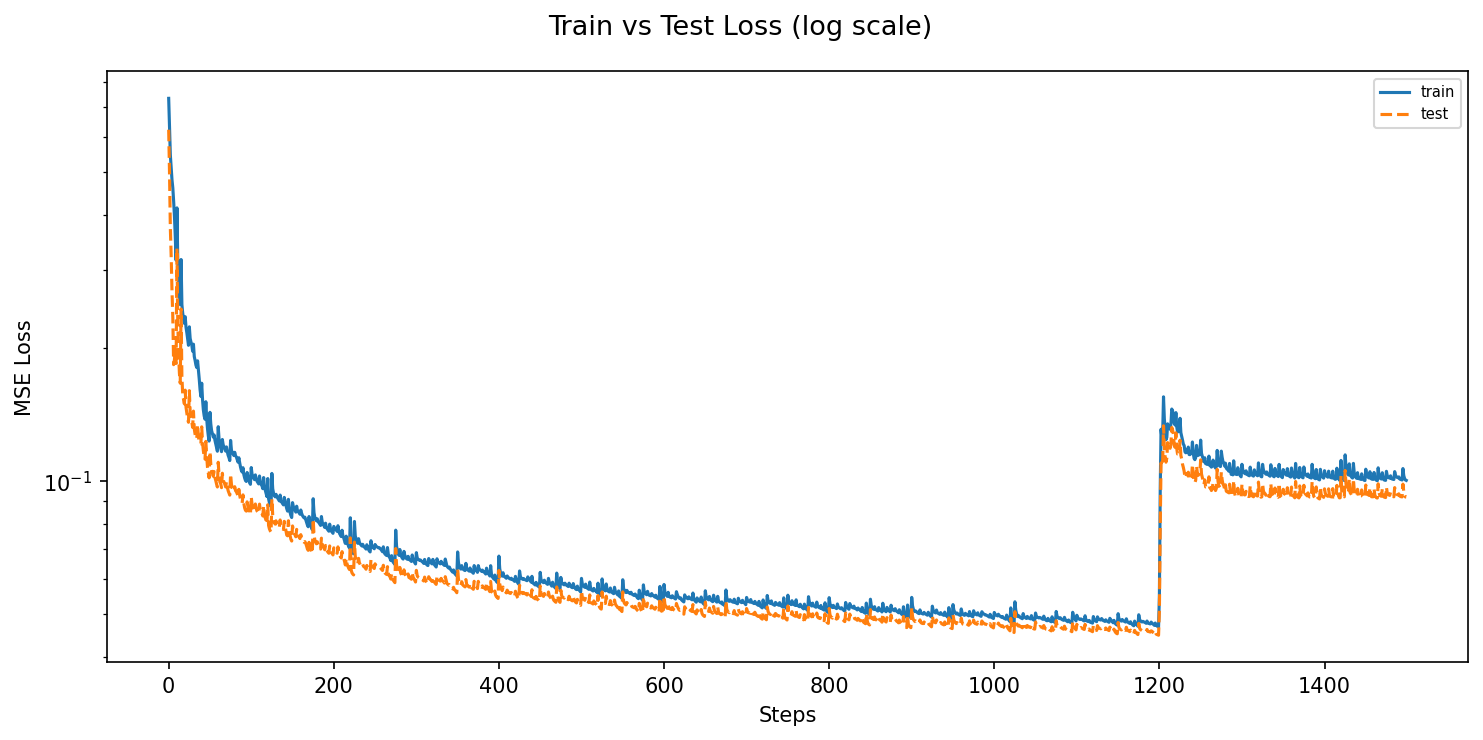
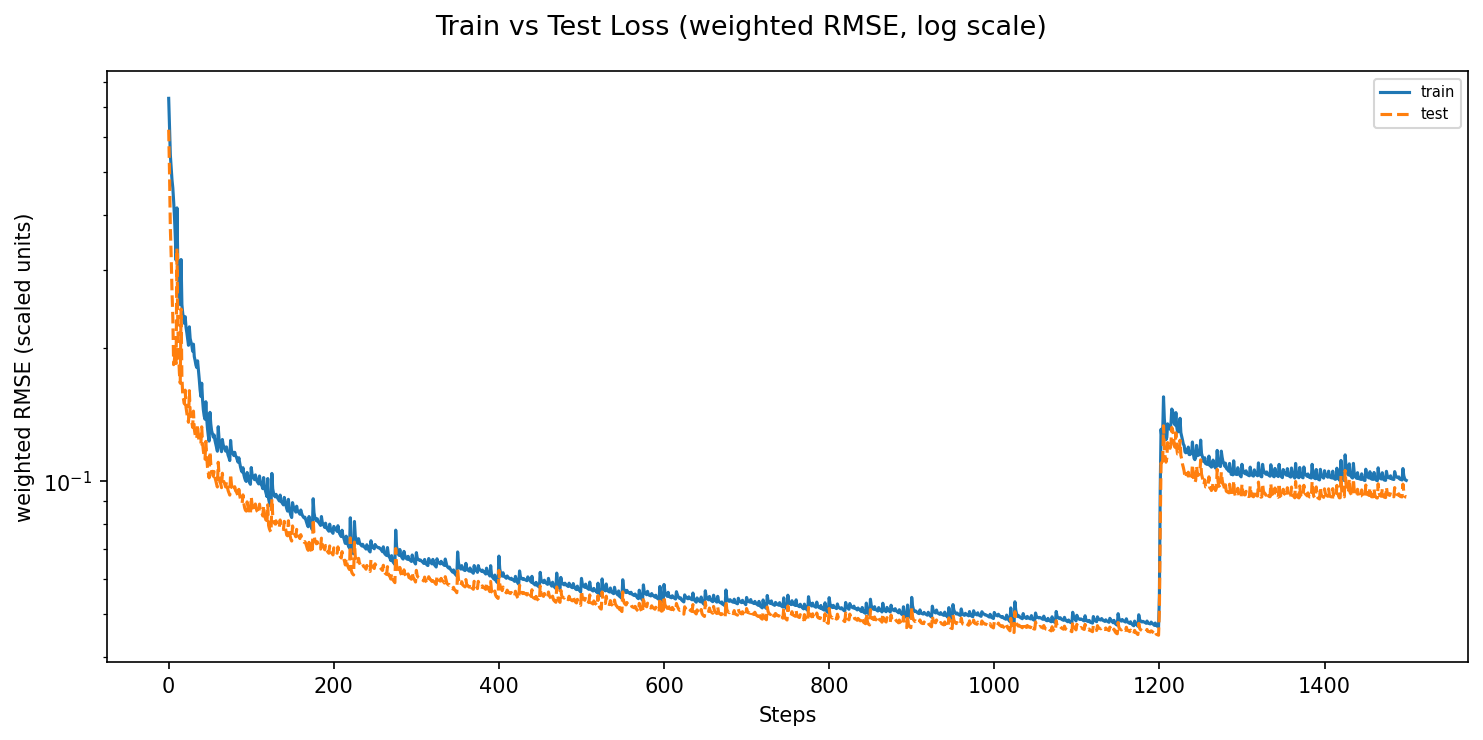
nAn patches

Changed region(s): [[0.3102, 0.0, 0.7134, 0.0622], [0.0, 0.2797, 0.031, 0.7149]]

diff --git a/visualize.py b/visualize.py
@@ -44,12 +44,14 @@ def plot_loss_curves():
         train_loss = list(_h["train_loss"])
         test_loss  = list(_h["test_loss"])
 
+        # pykan stores sqrt() of the loss it was given, and it was given
+        # weighted_mse, so these series are weighted RMSE and not MSE
         fig, ax = plt.subplots(figsize=(10, 5))
-        fig.suptitle("Train vs Test Loss (log scale)", fontsize=13)
+        fig.suptitle("Train vs Test Loss (weighted RMSE, log scale)", fontsize=13)
         ax.semilogy(train_loss, label='train')
         ax.semilogy(test_loss,  label='test', linestyle='--')
         ax.set_xlabel("Steps")
-        ax.set_ylabel("MSE Loss")
+        ax.set_ylabel("weighted RMSE (scaled units)")
         ax.legend(fontsize=7)
         plt.tight_layout()
         plt.savefig(cfg.FIG_DIR + "loss_curves.png", dpi=150, bbox_inches="tight")
@@ -66,6 +68,16 @@ def plot_scatter(preds, actual_ppb, species_names, n_species):
     axes = axes.flatten()
     for i, (name, ax) in enumerate(zip(species_names, axes)):
         a, p = actual_ppb[:, i], preds[:, i]
+
+        # np.polyfit raises LinAlgError on non-finite input, which would take out
+        # the whole figure just because one species went bad
+        finite = np.isfinite(a) & np.isfinite(p)
+        a, p = a[finite], p[finite]
+        if a.size < 2:
+            ax.set_title(f"{name}  (no finite predictions)", fontsize=9)
+            ax.set_visible(True)
+            continue
+
         ax.scatter(a, p, s=1, alpha=0.3)
 
         # 1:1 reference line
@@ -96,8 +108,16 @@ def plot_scatter(preds, actual_ppb, species_names, n_species):
 def plot_kan_graph(model, dataset, species_names, n_species):
     model.save_act = True
     with torch.no_grad():
-        plot_idx = torch.randperm(dataset['train_input'].shape[0])[:8192]
-        model(dataset['train_input'][plot_idx])
+        # seeded so the same run always composites the graph from the same sample
+        gen = torch.Generator(device='cpu').manual_seed(cfg.SEED)
+        plot_idx = torch.randperm(dataset['train_input'].shape[0], generator=gen)[:8192]
+        out = model(dataset['train_input'][plot_idx])
+
+    # plot() turns activations into alpha values, so a non-finite model dies deep
+    # inside matplotlib with an opaque "alpha is outside 0-1 range" error
+    if not torch.isfinite(out).all():
+        print("Skipped KAN graph: model produces non-finite activations, retrain first")
+        return
 
     # pykan's label font size (40*scale*varscale) and label spacing (fig_width/n_species)
     # both scale with `scale`, so only varscale (not scale) can prevent label overlap

diff --git a/model.py b/model.py
@@ -1,28 +1,56 @@
-import torch
-from kan import KAN
+import sys
+import functools
+sys.stdout.reconfigure(encoding="utf-8")
+print = functools.partial(print, flush=True)
+
+import numpy as np
 
 import config as cfg
+import data
+import kan_patches
+import train
+import evaluate
+import visualize
 
+kan_patches.install()
 
-def build_kan_width(n_species):
-    return [n_species, 16, 16, 16, n_species]
+X_clean, D_active, species_names, n_species = data.load_and_clean_data()
 
+# distribution plots
+visualize.plot_distributions(np.log1p(X_clean), D_active, species_names)
 
-def build_species_weight(species_names, device):
-    return torch.tensor(
-        [cfg.SPECIES_WEIGHTS.get(name, 1.0) for name in species_names],
-        dtype=torch.float32, device=device,
-    )
+# scale
+scalerX, scalerY, X_train, Y_train, X_test, Y_test, dataset = data.scale_and_split(X_clean, D_active)
 
+# training
+KAN_WIDTH = train.build_kan_width(n_species)
+print(f"\nArchitecture: {KAN_WIDTH}")
 
-def make_weighted_mse(species_weight):
-    def weighted_mse(pred, target):
-        return torch.mean(species_weight * (pred - target) ** 2)
-    return weighted_mse
+species_weight = train.build_species_weight(species_names, cfg.device)
+weighted_mse   = train.make_weighted_mse(species_weight)
 
+# save preprocessed splits + scaler + weights so baselines.py trains on the same data/weights
+data.save_splits(X_train, Y_train, X_test, Y_test, species_names, species_weight, scalerY, scalerX)
 
-def make_model(kan_width, seed, device):
-    torch.manual_seed(seed)
-    m = KAN(width=kan_width, grid=5, k=3, seed=seed, device=device, auto_save=False, grid_eps=0.0)
-    m.speed()
-    return m
+trained_model, _, _, _ = train.run_training_pipeline(dataset, KAN_WIDTH, weighted_mse)
+
+# loss curves
+visualize.plot_loss_curves()
+
+# evaluate
+mse, rmse_per, preds, actual_ppb = evaluate.eval_model(trained_model, dataset, scalerY)
+
+print(f"\nTest MSE: {mse:.6f} | Mean RMSE: {rmse_per.mean():.4f} ppb/step")
+for name, rmse in zip(species_names, rmse_per):
+    print(f"  {name:10s}: {rmse:.4f} ppb/step")
+
+trained_model, mse, rmse_per, preds, actual_ppb = evaluate.run_symbolic_fitting(
+    trained_model, dataset, scalerY, species_names, mse, rmse_per, weighted_mse,
+)
+
+# ols scatter: predicted vs actual per species
+visualize.plot_scatter(preds, actual_ppb, species_names, n_species)
+
+# save predictions and KAN graph
+data.save_predictions(preds, actual_ppb, species_names)
+visualize.plot_kan_graph(trained_model, dataset, species_names, n_species)

diff --git a/train.py b/train.py
@@ -1,8 +1,32 @@
 import numpy as np
+import torch
 from kan import KAN
 
 import config as cfg
-import model as model_mod
+
+
+def build_kan_width(n_species):
+    return [n_species, 16, 16, 16, n_species]
+
+
+def build_species_weight(species_names, device):
+    return torch.tensor(
+        [cfg.SPECIES_WEIGHTS.get(name, 1.0) for name in species_names],
+        dtype=torch.float32, device=device,
+    )
+
+
+def make_weighted_mse(species_weight):
+    def weighted_mse(pred, target):
+        return torch.mean(species_weight * (pred - target) ** 2)
+    return weighted_mse
+
+
+def make_model(kan_width, seed, device):
+    torch.manual_seed(seed)
+    m = KAN(width=kan_width, grid=5, k=3, seed=seed, device=device, auto_save=False, grid_eps=0.0)
+    m.speed()
+    return m
 
 
 def loss_key(results):
@@ -40,7 +64,7 @@ def run_training_pipeline(dataset, kan_width, weighted_mse):
         model = KAN.loadckpt(cfg.CKPT_PATH)
         return model, [], [], float('inf')
 
-    model    = model_mod.make_model(kan_width, cfg.SEED, cfg.device)
+    model    = make_model(kan_width, cfg.SEED, cfg.device)
     best_val = float('inf')
     train_loss, test_loss = [], []
 
@@ -75,6 +99,10 @@ def run_training_pipeline(dataset, kan_width, weighted_mse):
     model.save_act  = False
     model.auto_save = False
 
+    # prune changed the parameter shapes, so a best checkpoint from before it can
+    # no longer be loaded into this model. reset so BEST_CKPT_PATH stays loadable
+    best_val = float('inf')
+
     # grid refinement: train the pruned network at increasing spline
     # resolution, retraining after each refine step
     for grid in cfg.REFINE_GRIDS:
@@ -82,6 +110,7 @@ def run_training_pipeline(dataset, kan_width, weighted_mse):
         model(dataset['train_input'])
         model = model.refine(grid)
         model.save_act = False   # refine() resets save_act to its default (True)
+        best_val = float('inf')  # grid change resizes coef, same reason as after prune
 
         print(f"\nGrid refine: grid={grid} ({cfg.REFINE_STEPS} steps)")
         stage_train, stage_test, best_val = fit_chunked(

diff --git a/data.py b/data.py
@@ -51,14 +51,16 @@ def t(arr):
 
 
 def scale_and_split(X_clean, D_active):
-    scalerX  = StandardScaler()
-    scalerY  = StandardScaler()
-    X_scaled = scalerX.fit_transform(np.log1p(X_clean))
-    Y_scaled = scalerY.fit_transform(D_active)
+    X_log   = np.log1p(X_clean)
+    n_train = int(X_log.shape[0] * cfg.TRAIN_SPLIT)
 
-    n_train          = int(X_scaled.shape[0] * cfg.TRAIN_SPLIT)
-    X_train, Y_train = X_scaled[:n_train], Y_scaled[:n_train]
-    X_test,  Y_test  = X_scaled[n_train:], Y_scaled[n_train:]
+    # fit on train only: fitting before the split leaks test mean/std into the
+    # training inputs, which makes the reported test score optimistic
+    scalerX = StandardScaler().fit(X_log[:n_train])
+    scalerY = StandardScaler().fit(D_active[:n_train])
+
+    X_train, Y_train = scalerX.transform(X_log[:n_train]), scalerY.transform(D_active[:n_train])
+    X_test,  Y_test  = scalerX.transform(X_log[n_train:]), scalerY.transform(D_active[n_train:])
     print(X_train.shape)
 
     dataset = {
@@ -70,7 +72,7 @@ def scale_and_split(X_clean, D_active):
     return scalerX, scalerY, X_train, Y_train, X_test, Y_test, dataset
 
 
-def save_splits(X_train, Y_train, X_test, Y_test, species_names, species_weight, scalerY):
+def save_splits(X_train, Y_train, X_test, Y_test, species_names, species_weight, scalerY, scalerX):
     # saved so baselines.py trains on the same data/weights — keep these keys
     # and paths in sync with baselines.py's np.load(SPLITS_PATH) / scalerY load
     np.savez(
@@ -81,7 +83,9 @@ def save_splits(X_train, Y_train, X_test, Y_test, species_names, species_weight,
         species_weight=species_weight.cpu().numpy(),
     )
     joblib.dump(scalerY, cfg.SCALER_Y_PATH)
-    print(f"Saved splits + scaler to {os.path.dirname(cfg.SPLITS_PATH)}")
+    # scalerX is needed to map symbolic formulas back to ppb, so keep it too
+    joblib.dump(scalerX, cfg.SCALER_X_PATH)
+    print(f"Saved splits + scalers to {os.path.dirname(cfg.SPLITS_PATH)}")
 
 
 def save_predictions(preds, actual_ppb, species_names):

diff --git a/kan_patches.py b/kan_patches.py
@@ -1,0 +1,41 @@
+import sys
+import torch
+import kan.spline
+import kan.MultKAN
+import kan.KANLayer
+from kan.spline import B_batch
+
+# pykan 0.2.8 refits spline coefficients with a bare torch.linalg.lstsq. after
+# prune() most of those systems are rank-deficient (measured here: 152 of 219,
+# worst had rank 1 of 13 needed). lstsq's default driver is gelsy on cpu, which
+# copes, but cuda only offers gels, which assumes full rank and silently returns
+# inf/nan -- so on gpu the whole model turns to nan at the first refine().
+# pykan 0.2.7 used a ridge-regularised pseudo-inverse here and 0.2.8 replaced it;
+# this restores that. pinv takes the same path on cpu and cuda, and unlike solve()
+# it stays defined when the system is rank-deficient.
+# upstream reports: KindXiaoming/pykan#498, #416
+_TARGETS = ("kan.spline", "kan.MultKAN", "kan.KANLayer")
+
+
+def curve2coef(x_eval, y_eval, grid, k, lamb=1e-8):
+    mat = B_batch(x_eval, grid, k)
+    n_coef = grid.shape[1] - k - 1
+    X = mat.permute(1, 0, 2)
+    Y = y_eval.permute(1, 0, 2)
+    XtX = X.transpose(1, 2) @ X
+    Xty = X.transpose(1, 2) @ Y
+    eye = torch.eye(n_coef, device=mat.device, dtype=mat.dtype).expand_as(XtX)
+    # pinverse rather than solve: after prune some of these systems are rank 1 of
+    # 13, and a 1e-8 ridge sits below float32 resolution, so solve() still reports
+    # a singular matrix. the pseudo-inverse is defined at any rank, and matches
+    # what 0.2.7 did here
+    coef = torch.linalg.pinv(XtX + lamb * eye) @ Xty
+    return coef.permute(0, 2, 1).contiguous()
+
+
+def install():
+    # each module resolves curve2coef from its own globals, and kan/__init__.py
+    # rebinds the name kan.MultKAN to the class, so go through sys.modules
+    for name in _TARGETS:
+        sys.modules[name].curve2coef = curve2coef
+    print("patched pykan curve2coef (rank-safe ridge solve; cuda gels workaround)")

diff --git a/baselines.py b/baselines.py
@@ -8,7 +8,6 @@ import joblib
 import os
 import time
 
-# pip install xgboost scikit-learn if not already installed
 from xgboost import XGBRegressor
 from sklearn.multioutput import MultiOutputRegressor
 
@@ -23,7 +22,7 @@ os.makedirs(FIG_DIR, exist_ok=True)
 device = torch.device('cuda' if torch.cuda.is_available() else 'cpu')   # mps skipped: incomplete op coverage for pykan/lbfgs
 print(f"device: {device}" + (f" ({torch.cuda.get_device_name(0)})" if device.type == "cuda" else ""))
 
-# load preprocessed splits saved by smog_model.py
+# load preprocessed splits saved by model.py
 # these are already log1p + StandardScaler transformed — same as what KAN trained on
 d          = np.load(SPLITS, allow_pickle=True)
 X_train    = d['X_train']
@@ -72,7 +71,7 @@ class FFNN(nn.Module):
     def forward(self, x):
         return self.net(x)
 
-# weighted loss - reuses the exact per-species weights smog_model.py trained with
+# weighted loss - reuses the exact per-species weights model.py trained with
 _weights = torch.tensor(d['species_weight'], dtype=torch.float32, device=device)
 
 def weighted_mse(pred, target):

diff --git a/config.py b/config.py
@@ -9,6 +9,7 @@ FIG_DIR   = os.path.join(BASE_DIR, "figures", "")
 CKPT_PATH      = os.path.join(BASE_DIR, "model", "smog_kan")
 BEST_CKPT_PATH = os.path.join(BASE_DIR, "model", "smog_kan_best")
 SPLITS_PATH    = os.path.join(BASE_DIR, "model", "splits.npz")
+SCALER_X_PATH  = os.path.join(BASE_DIR, "model", "scalerX.pkl")
 SCALER_Y_PATH  = os.path.join(BASE_DIR, "model", "scalerY.pkl")
 HIST_PATH      = os.path.join(BASE_DIR, "model", "loss_history.npz")
 GRAPH_PATH     = os.path.join(BASE_DIR, "kan_graph.png")

diff --git a/CHANGES.md b/CHANGES.md
@@ -2,7 +2,7 @@
 
 A summary of every meaningful change made to the model, with plain-English explanations of what each one does and why it matters.
 
-> note: smog_model.py was later split into config.py, data.py, model.py, train.py, evaluate.py, and visualize.py, with smog_model.py kept as the entrypoint that ties them together. the entries below predate that split and describe logic that now lives across those files.
+> note: the original smog_model.py was later split into config.py, data.py, train.py, evaluate.py, and visualize.py, with model.py as the new entrypoint that calls into them. the entries below predate that split and describe logic that now lives across those files.
 
 ---
 
